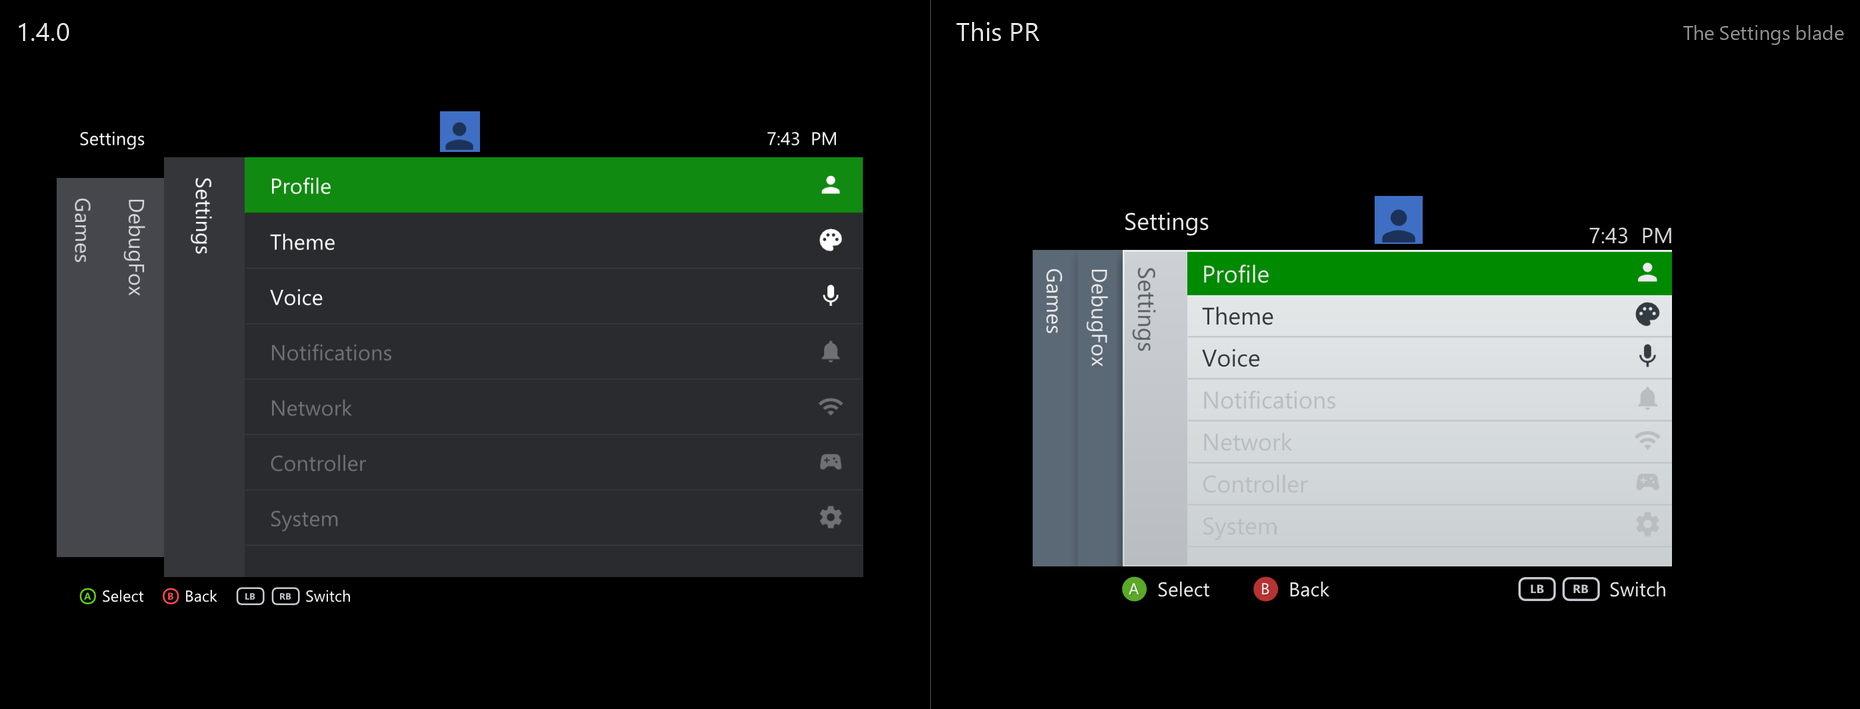
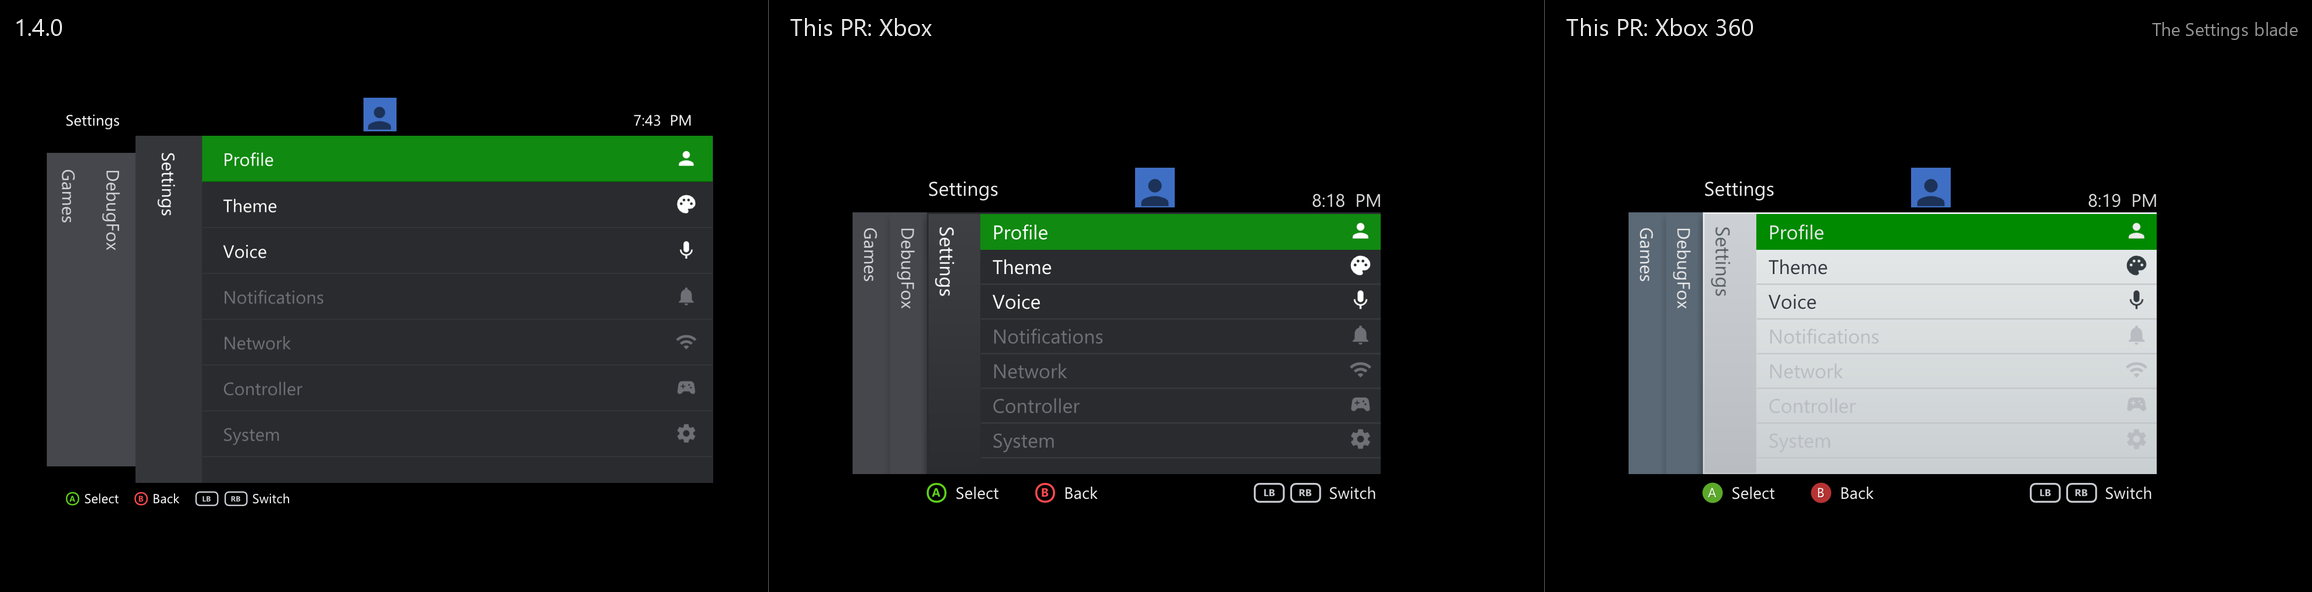
Guide: each page in 1.4.0, in Xbox and in Xbox 360, pictures for the pull request

diff --git a/README.md b/README.md
@@ -1,1 +1,1 @@
-Pictures for the pull request "Guide: the 360 Guide's own skin, geometry and page frame": each page of the Guide in 1.4.0 beside the same page with the change, drawn off screen by guide-preview.exe on a black background with sample players.
+Pictures for the pull request "Guide: the 360 Guide's own skin, geometry and page frame": each page of the Guide in 1.4.0 beside the same page with the change, in the Xbox theme and in the new Xbox 360 theme, drawn off screen by guide-preview.exe on a black background with sample players.
